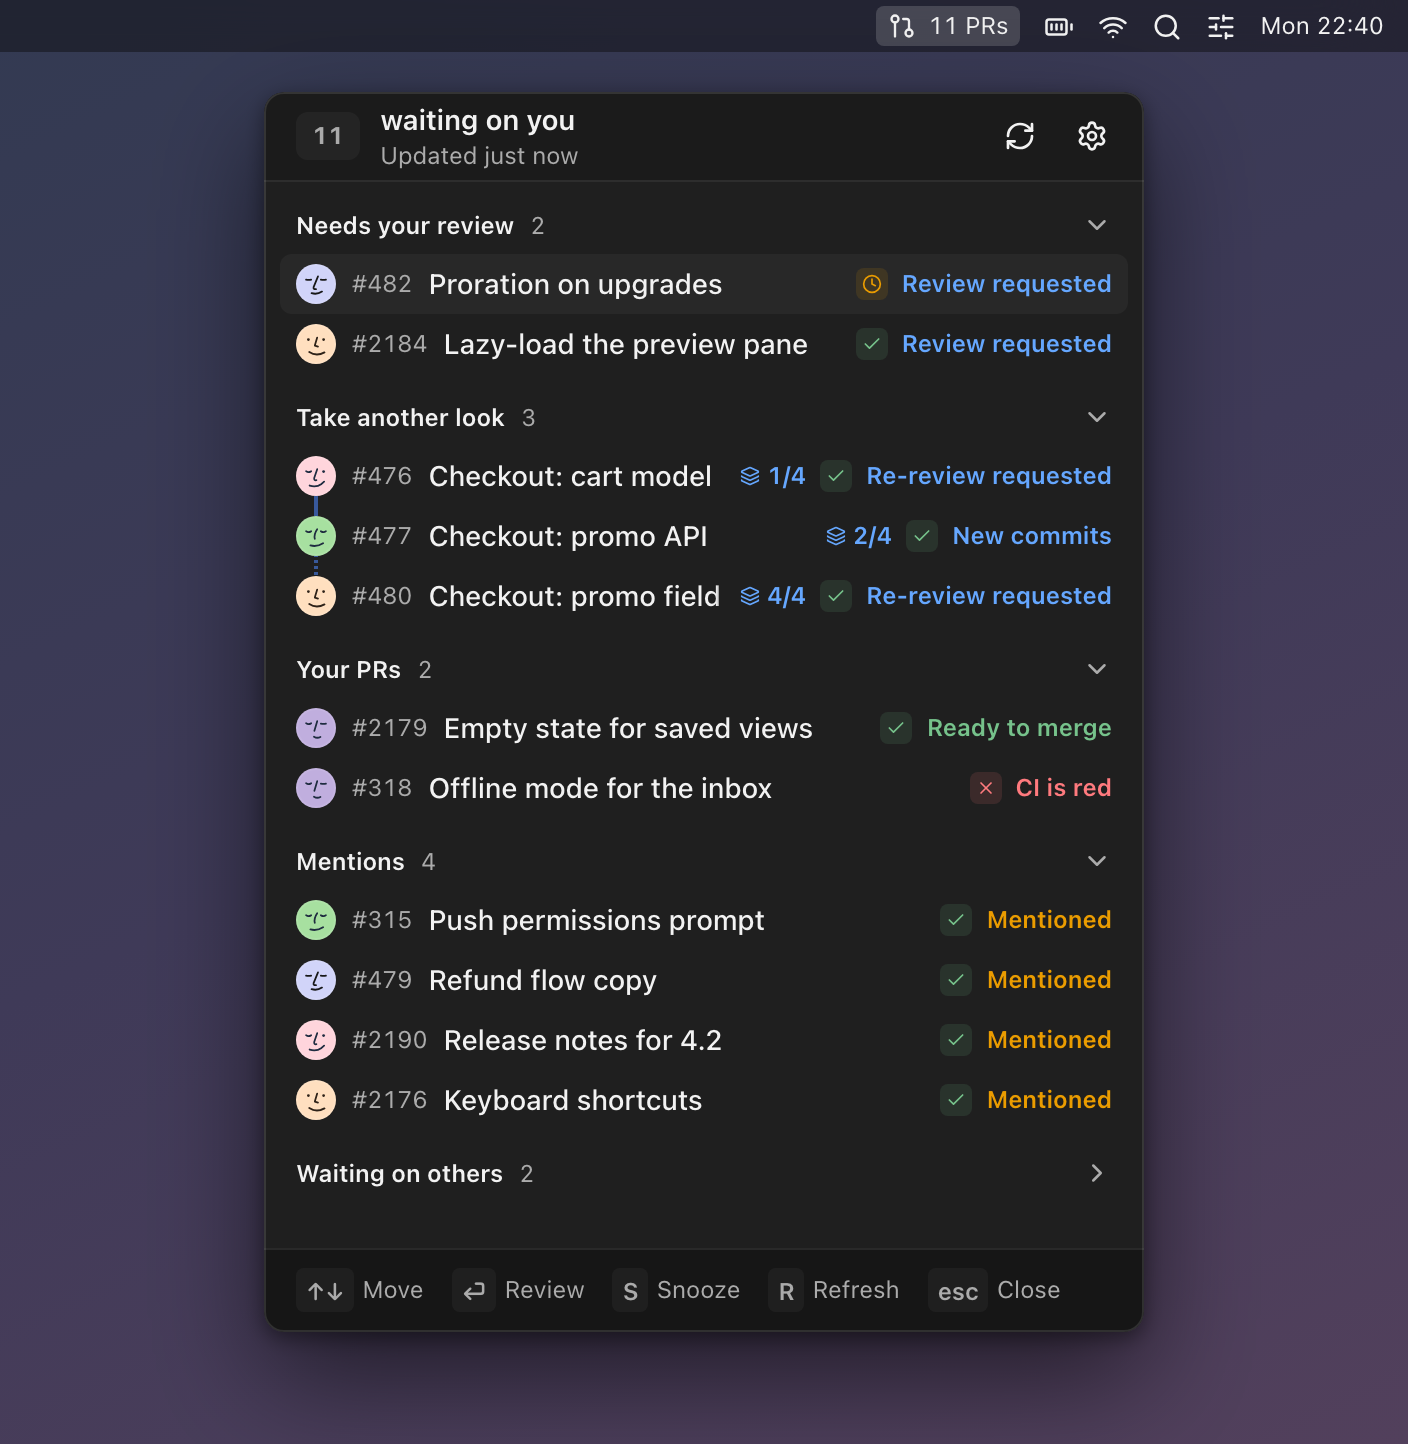
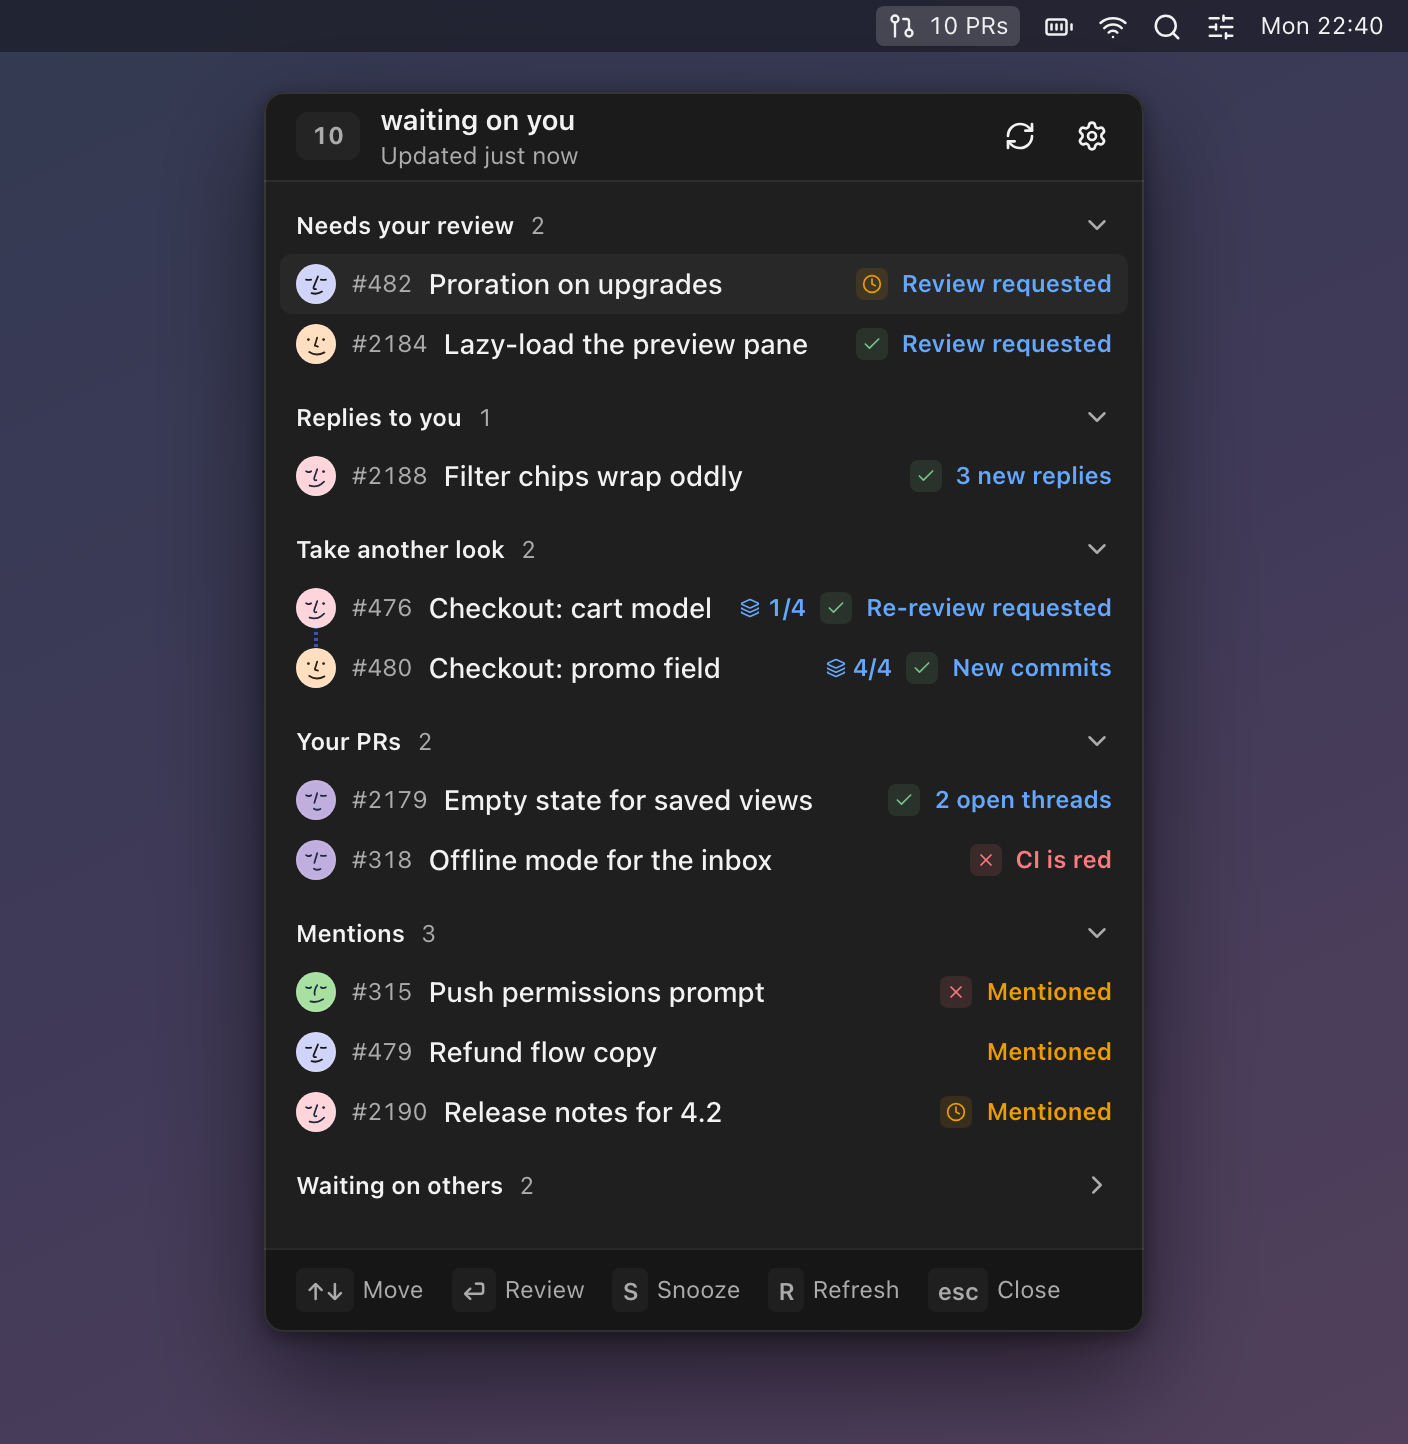
Show the comment-thread reasons, and stop the CI badges reading as one
Two of the reasons worth having the app for were missing from both
pictures. There is a "Replies to you" section now — someone answered you on
a pull request you are reviewing — and "Your PRs" trades "Ready to merge"
for "2 open threads", which is the one that says Pullover watches comment
threads and not just review state.

The four Mentions rows were also four identical green ticks. They now carry
a red build, a yellow one, and no checks at all — that last is a real state
the list has to look right in, and it draws no chip, which is easy to
forget exists.

Room for that came out of the stack: two shown links of four instead of
three. The dotted break and the 1/4 → 4/4 badges are the whole point of
drawing a stack, and two rows make them, with one reason each rather than
the same one twice.

diff --git a/src/renderer/src/test/demo-inbox.ts b/src/renderer/src/test/demo-inbox.ts
@@ -96,10 +96,24 @@ const ROWS: DemoRow[] = [
     waitingMinutes: 40,
     stack: null,
   },
-  // One feature split into a chain of four, three of which need the user — so
-  // the run draws solid between 1 and 2 and dotted where 3 is missing. Their
-  // waiting times climb down the list rather than up, which is the one place
-  // the inbox's order gives way: inside a stack the chain wins.
+  {
+    repository: 'acme/dashboard',
+    number: 2188,
+    title: 'Filter chips wrap oddly',
+    author: 'mira',
+    additions: 87,
+    deletions: 31,
+    ci: 'success',
+    category: 'new-replies',
+    reason: '3 new replies',
+    waitingMinutes: 9 * 60,
+    stack: null,
+  },
+  // One feature split into a chain of four, two of which need the user — so
+  // the run draws a dotted segment where the two in between are missing, and
+  // the badges read 1/4 then 4/4. Their waiting times climb down the list
+  // rather than up, which is the one place the inbox's order gives way:
+  // inside a stack the chain wins.
   //
   // Three different authors, because a chain is grouped by its branches and
   // never by who wrote them, and one face three rows running reads as a
@@ -119,19 +133,6 @@ const ROWS: DemoRow[] = [
   },
   {
     repository: 'acme/billing',
-    number: 477,
-    title: 'Checkout: promo API',
-    author: 'tpark',
-    additions: 96,
-    deletions: 12,
-    ci: 'success',
-    category: 're-review',
-    reason: 'New commits',
-    waitingMinutes: 8 * 60,
-    stack: ['stack-checkout', 2, 4],
-  },
-  {
-    repository: 'acme/billing',
     number: 480,
     title: 'Checkout: promo field',
     author: 'kirill',
@@ -139,7 +140,7 @@ const ROWS: DemoRow[] = [
     deletions: 9,
     ci: 'success',
     category: 're-review',
-    reason: 'Re-review requested',
+    reason: 'New commits',
     waitingMinutes: 9 * 60,
     stack: ['stack-checkout', 4, 4],
   },
@@ -154,8 +155,8 @@ const ROWS: DemoRow[] = [
     deletions: 4,
     ci: 'success',
     category: 'my-pr-action',
-    reason: 'Ready to merge',
-    waitingMinutes: 6 * 60,
+    reason: '2 open threads',
+    waitingMinutes: 10 * 60,
     stack: null,
   },
   {
@@ -178,7 +179,7 @@ const ROWS: DemoRow[] = [
     author: 'tpark',
     additions: 64,
     deletions: 28,
-    ci: 'success',
+    ci: 'failure',
     category: 'mentioned',
     reason: 'Mentioned',
     waitingMinutes: 12 * 60,
@@ -191,7 +192,10 @@ const ROWS: DemoRow[] = [
     author: 'sdiaz',
     additions: 6,
     deletions: 6,
-    ci: 'success',
+    // No checks on this one at all, which draws no chip — a state the list
+    // has to look right in, and the only way the four badges here cover
+    // every value `ciStatus` takes.
+    ci: 'none',
     category: 'mentioned',
     reason: 'Mentioned',
     waitingMinutes: 7 * 60,
@@ -204,23 +208,10 @@ const ROWS: DemoRow[] = [
     author: 'mira',
     additions: 33,
     deletions: 4,
-    ci: 'success',
+    ci: 'pending',
     category: 'mentioned',
     reason: 'Mentioned',
     waitingMinutes: 4 * 60,
-    stack: null,
-  },
-  {
-    repository: 'acme/dashboard',
-    number: 2176,
-    title: 'Keyboard shortcuts',
-    author: 'kirill',
-    additions: 128,
-    deletions: 37,
-    ci: 'success',
-    category: 'mentioned',
-    reason: 'Mentioned',
-    waitingMinutes: 45,
     stack: null,
   },
   // Nothing is waiting on the user here, so these two are ordered by their
